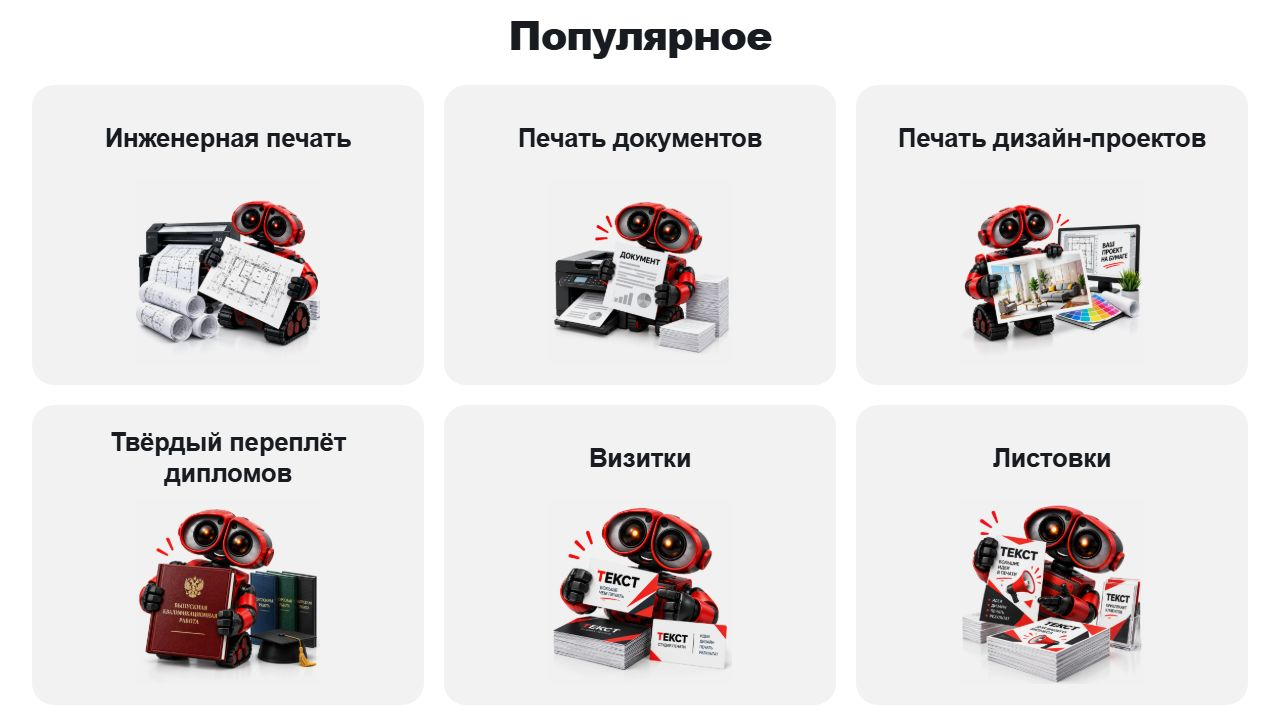
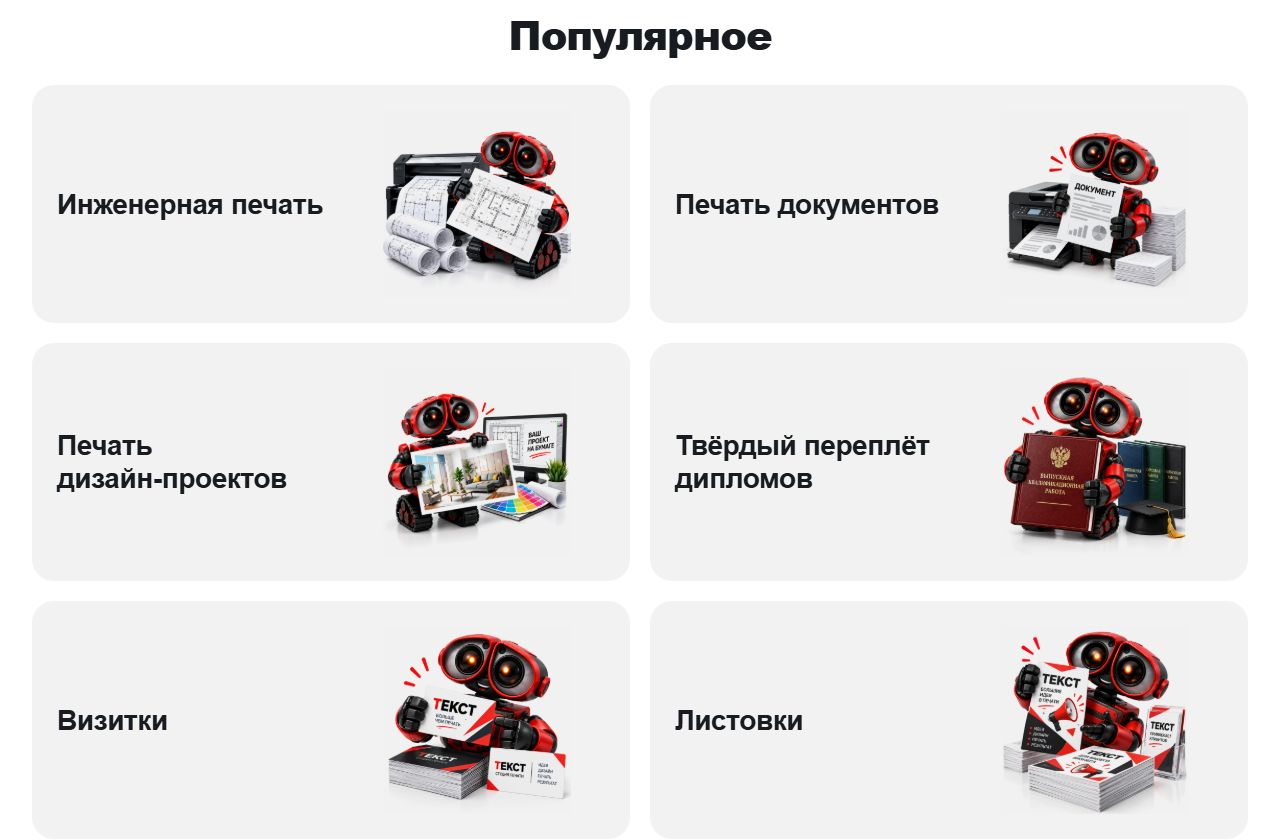
Use wide horizontal service cards with larger titles on the left

diff --git a/homepage.css b/homepage.css
@@ -191,8 +191,8 @@ footer{background:linear-gradient(120deg,#242829,#1c2021);color:#fff;padding:24p
 .calculator-art img{position:absolute;inset:8px;width:calc(100% - 16px);height:calc(100% - 16px);max-width:100%;max-height:100%;object-fit:contain}
 .featured-section{margin-top:40px;margin-bottom:34px}
 .featured-section>h2{text-align:center;font-size:40px;letter-spacing:-1px;margin-bottom:28px}
-.featured-grid{display:grid;grid-template-columns:repeat(3,minmax(0,1fr));gap:20px}
-.featured-card{display:grid;grid-template-columns:minmax(0,1fr);grid-template-rows:64px minmax(0,1fr);gap:10px;align-items:stretch;text-align:center;background:#f2f2f2;border:1px solid transparent;border-radius:22px;height:300px;padding:20px;min-width:0;transition:background .25s,border-color .25s,box-shadow .25s,transform .25s}
+.featured-grid{display:grid;grid-template-columns:repeat(2,minmax(0,1fr));gap:20px}
+.featured-card{display:grid;grid-template-columns:minmax(0,.52fr) minmax(0,.48fr);gap:16px;align-items:stretch;text-align:left;background:#f2f2f2;border:1px solid transparent;border-radius:22px;height:238px;padding:24px;min-width:0;transition:background .25s,border-color .25s,box-shadow .25s,transform .25s}
 .featured-card:focus-visible{background:#fff6f6;border-color:#e8a5ab;box-shadow:0 12px 26px #a52c3014;transform:translateY(-4px)}
 @media(hover:hover){
   .featured-card:hover{background:#fff6f6;border-color:#e8a5ab;box-shadow:0 12px 26px #a52c3014;transform:translateY(-4px)}
@@ -201,8 +201,8 @@ footer{background:linear-gradient(120deg,#242829,#1c2021);color:#fff;padding:24p
 }
 .featured-card:active{transform:translateY(-1px) scale(.985);box-shadow:0 4px 12px #a52c3010}
 .featured-card:focus-visible{outline:3px solid var(--red);outline-offset:4px}
-.featured-copy{display:flex;align-items:center;justify-content:center;min-width:0}
-.featured-name{font-size:26px;line-height:1.2;letter-spacing:-.4px;font-weight:700;text-wrap:balance;overflow-wrap:normal;word-break:normal;hyphens:none;transition:color .25s}
+.featured-copy{display:flex;align-items:center;justify-content:flex-start;min-width:0}
+.featured-name{font-size:28px;line-height:1.2;letter-spacing:-.4px;font-weight:700;text-wrap:balance;overflow-wrap:normal;word-break:normal;hyphens:none;transition:color .25s}
 .featured-word{display:inline-block;white-space:nowrap}
 .featured-art{display:block;position:relative;min-width:0;min-height:0;width:100%;padding:0}
 .featured-art img{position:absolute;inset:0;display:block;object-fit:contain;object-position:center;width:100%;height:100%;max-height:100%;mix-blend-mode:multiply;transition:transform .3s}
@@ -213,16 +213,16 @@ footer{background:linear-gradient(120deg,#242829,#1c2021);color:#fff;padding:24p
 .service-summary .dialog-intro{margin-bottom:0}
 @media(max-width:1150px){
   .hero-art{height:390px}
-  .featured-card{height:288px;padding:18px}
-  .featured-name{font-size:24px}
+  .featured-card{grid-template-columns:minmax(0,.56fr) minmax(0,.44fr);height:224px;padding:18px;gap:12px}
+  .featured-name{font-size:25px}
   .featured-grid{gap:16px}
   .calculator-art{height:220px}
 }
 @media(max-width:950px){
   .hero-art{height:350px}
   .featured-section>h2{font-size:34px}
-  .featured-grid{grid-template-columns:repeat(2,minmax(0,1fr))}
-  .featured-card{height:300px;padding:20px}
+  .featured-grid{grid-template-columns:1fr}
+  .featured-card{grid-template-columns:minmax(0,.52fr) minmax(0,.48fr);height:224px;padding:22px}
   .featured-name{font-size:26px}
   .calculator-art{height:200px}
   .calculator-banner{min-height:220px}
@@ -233,8 +233,8 @@ footer{background:linear-gradient(120deg,#242829,#1c2021);color:#fff;padding:24p
   .featured-section{margin-top:30px;margin-bottom:26px}
   .featured-section>h2{font-size:30px;margin-bottom:20px}
   .featured-grid{grid-template-columns:1fr;gap:14px}
-  .featured-card{height:286px;padding:18px;border-radius:20px;gap:8px}
-  .featured-name{font-size:25px}
+  .featured-card{grid-template-columns:minmax(0,.62fr) minmax(0,.38fr);height:200px;padding:16px;border-radius:20px;gap:8px}
+  .featured-name{font-size:clamp(20px,5.65vw,26px)}
   .calculator-banner{display:grid;grid-template-columns:58% minmax(0,42%);min-height:0}
   .calculator-copy{padding:20px 0 20px 17px}
   .calculator-copy h2{font-size:22px;overflow-wrap:normal;hyphens:auto}
@@ -254,8 +254,8 @@ footer{background:linear-gradient(120deg,#242829,#1c2021);color:#fff;padding:24p
   .topbar-socials .messenger-logo{width:18px;height:18px}
 }
 @media(max-width:360px){
-  .featured-card{height:270px;padding:16px;grid-template-rows:56px minmax(0,1fr)}
-  .featured-name{font-size:23px}
+  .featured-card{grid-template-columns:minmax(0,.62fr) minmax(0,.38fr);height:186px;padding:12px}
+  .featured-name{font-size:clamp(18px,5.6vw,19px)}
   .calculator-copy h2{font-size:19px}
   .calculator-lead{font-size:12px}
   .calculator-copy>p:not(.calculator-lead){font-size:11px}

diff --git a/README.md b/README.md
@@ -2,7 +2,7 @@
 
 Главная страница обновлена 5 октября 2026 по выбранному пользователем референсу `Пример для категории - Наклейки и стикеры1.png`. Оригиналы документов и изображений сохранены без изменений. Предыдущая версия страницы сохранена в `.work/homepage-before-20261005/`.
 
-Раздел «Популярное» использует светло-серые карточки с крупным жирным названием по центру над иллюстрацией. Названия переносятся только между словами, включая сохранение целиком слов с дефисом. Используются все 12 отдельных изображений из `сайт/раздел популярное/*1.png`. Версия до добавления этого раздела сохранена в `.work/homepage-before-popular/`.
+Раздел «Популярное» использует светло-серые горизонтальные карточки с крупным жирным названием слева и иллюстрацией справа. Названия переносятся только между словами, включая сохранение целиком слов с дефисом. Используются все 12 отдельных изображений из `сайт/раздел популярное/*1.png`. Версия до добавления этого раздела сохранена в `.work/homepage-before-popular/`.
 
 Последнее уточнение: «Популярные направления» удалены, оставлен только новый раздел «Популярное». Первый экран использует `assets/hero-screenshot.webp` — отдельную иллюстрацию, воссозданную встроенным image_gen по скриншоту пользователя с роботом, листом «Большие идеи начинаются с печати» и коробкой. В калькуляторах оставлены заголовок, одна короткая строка и кнопка расчёта визиток. Версия перед этими правками находится в `.work/homepage-before-cleanup/`.
 
@@ -29,7 +29,7 @@ npm run dev
 - Адаптивная главная: первый экран, «Популярное» из 12 карточек, баннер калькуляторов, логотипы клиентов, четыре преимущества, карта доставки, отзывы, FAQ и темный подвал.
 - Заголовки, описания и кнопки сверстаны отдельным HTML-текстом. Надписи внутри исходных иллюстраций сохранены: пользователь уточнил, что их убирать не нужно. Используются отдельные изображения, а не готовые баннеры с заголовками и блоками интерфейса.
 - На первом экране стоит `assets/hero-screenshot.webp`, в блоке калькуляторов — `сайт/Баннера/!калькулятор.png`. Ранее сгенерированные пустые роботы и иллюстрация «Больше, чем печать» больше не используются на главной.
-- Раздел «Популярное»: 12 карточек, три колонки на большом экране, две на планшете и одна на телефоне. Каждая карточка открывает соответствующую услугу или калькулятор визиток. Иллюстрации в этом блоке, первом экране и блоке калькулятора помещаются целиком через `object-fit: contain`.
+- Раздел «Популярное»: 12 карточек, две колонки на большом экране и одна на экранах до 950 пикселей. Каждая карточка открывает соответствующую услугу или калькулятор визиток. Иллюстрации в этом блоке, первом экране и блоке калькулятора помещаются целиком через `object-fit: contain`.
 - В окне услуги заголовок и описание находятся слева, иллюстрация справа; на телефоне блоки идут друг под другом. Для брошюровки используется присланная пользователем иллюстрация `брошюровка на пружину.png`.
 - Семь разделов верхнего меню; выпадающие панели на компьютере и аккордеон внутри мобильного меню.
 - Каталог 55 услуг из финальной SEO-таблицы: поиск, карточки с вариантами, примерами цен, сроками и требованиями к макетам.
